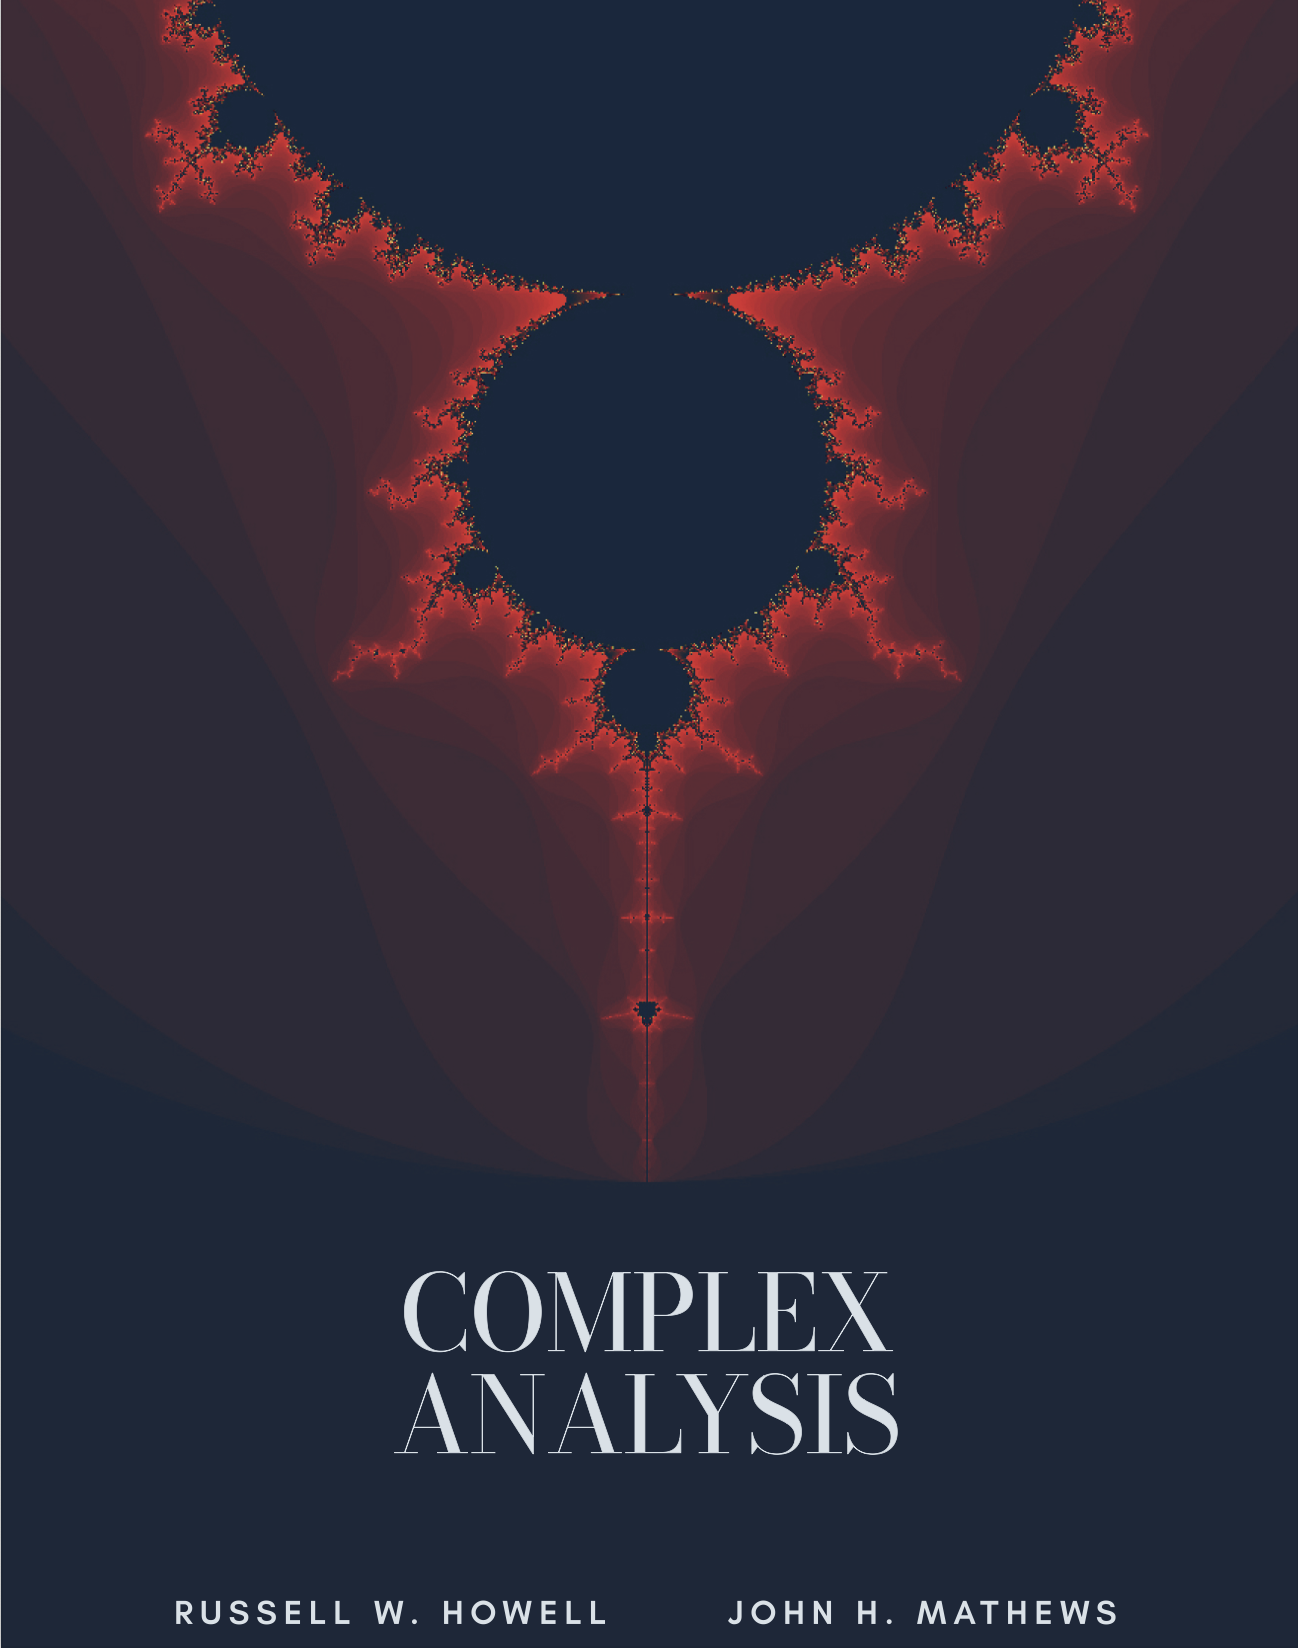
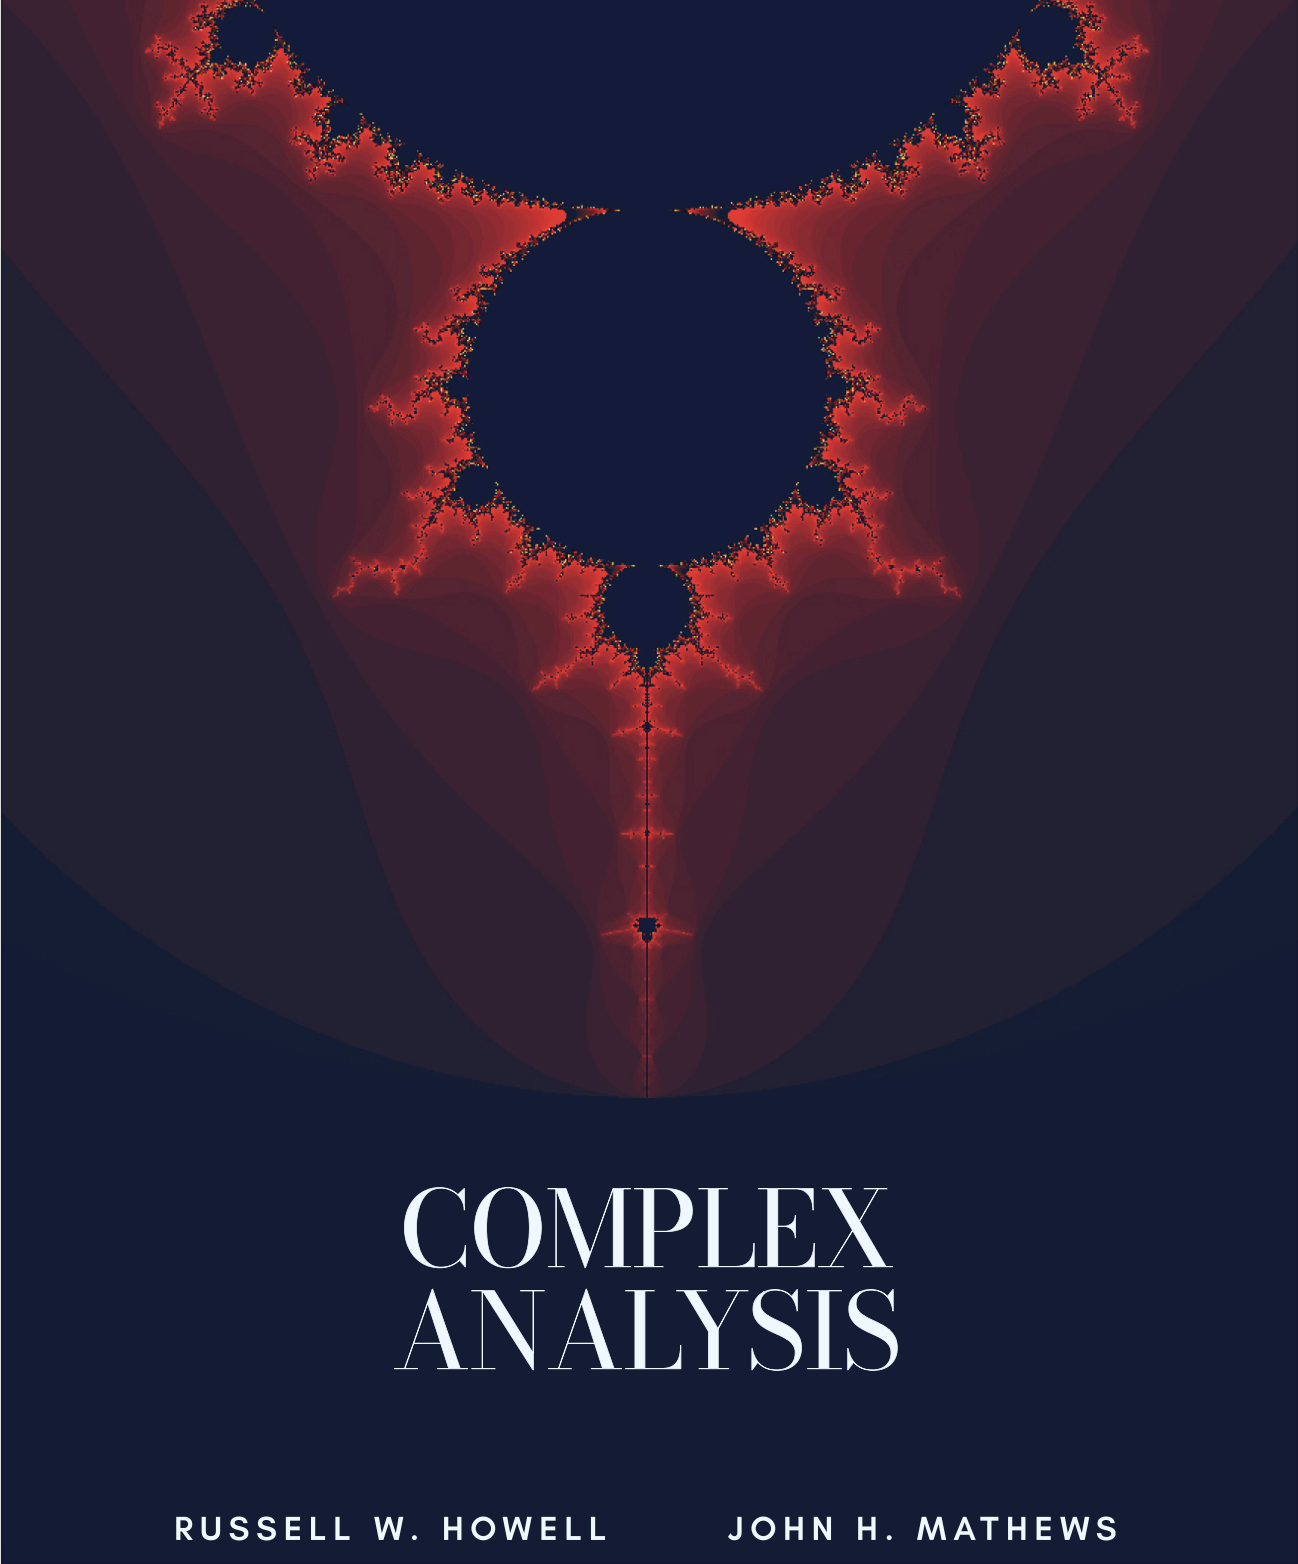
Update to PreTeXt project source.

diff --git a/site/index.html b/site/index.html
@@ -34,9 +34,9 @@
 			</ul>
 		</div>
 
-		<div class="update">
+		<div class="update" style="text-align: justify">
 			<p>
-			This website provides a free textbook for students and teachers of complex analysis. Under
+			This website provides a free textbook for students and teachers of complex analysis. Under continual
 			development is a section with topics (proposed by a variety of scholars) that are suitable for undergraduate research,
 			either as a summer REU-like session at one&rsquo;s home institution, or for exploration during the standard academic
 			year.
@@ -45,22 +45,21 @@
       
 		<div class="container">
 			<div class="cover">
-				<img width=340 src="cover-page.png"
+				<img width=340 src="cover-page-2.png"
 					alt="Book cover">
 			</div>
 
 		<div class="about" id="about">
-			<p>&nbsp;
-			<h2 id="textbook">
+			<div style="font-size: 25px; font-weight: bold; margin: 45px 0px 0px 0px;" id="textbook">
 				Textbook
-			</h2>
-			<h4>
+			</div>
+			<div style="text-align: justify; font-size: 20px; margin: 8px 0px 0px 0px;">
 				<em>Complex Analysis</em> was first published through six editions by Jones and Bartlett Learning with the title
 				<em>Complex Analysis for Mathemaics and Engineering</em>. It is now available online without cost in
 				both HTML and PDF formats. The HTML version is written in <a href="https://pretextbook.org/" target=_blank>
 				PreTeXt</a>, and has been endorsed by the <a href="https://aimath.org/textbooks/" target=_blank> Open Textbook
 				Initiative</a> at the <a href="https://aimath.org" target=_blank> American Institute of Mathematics</a>.
-			</h4>
+			</div>
 			<p>
 			<h3>
 				<ul>
